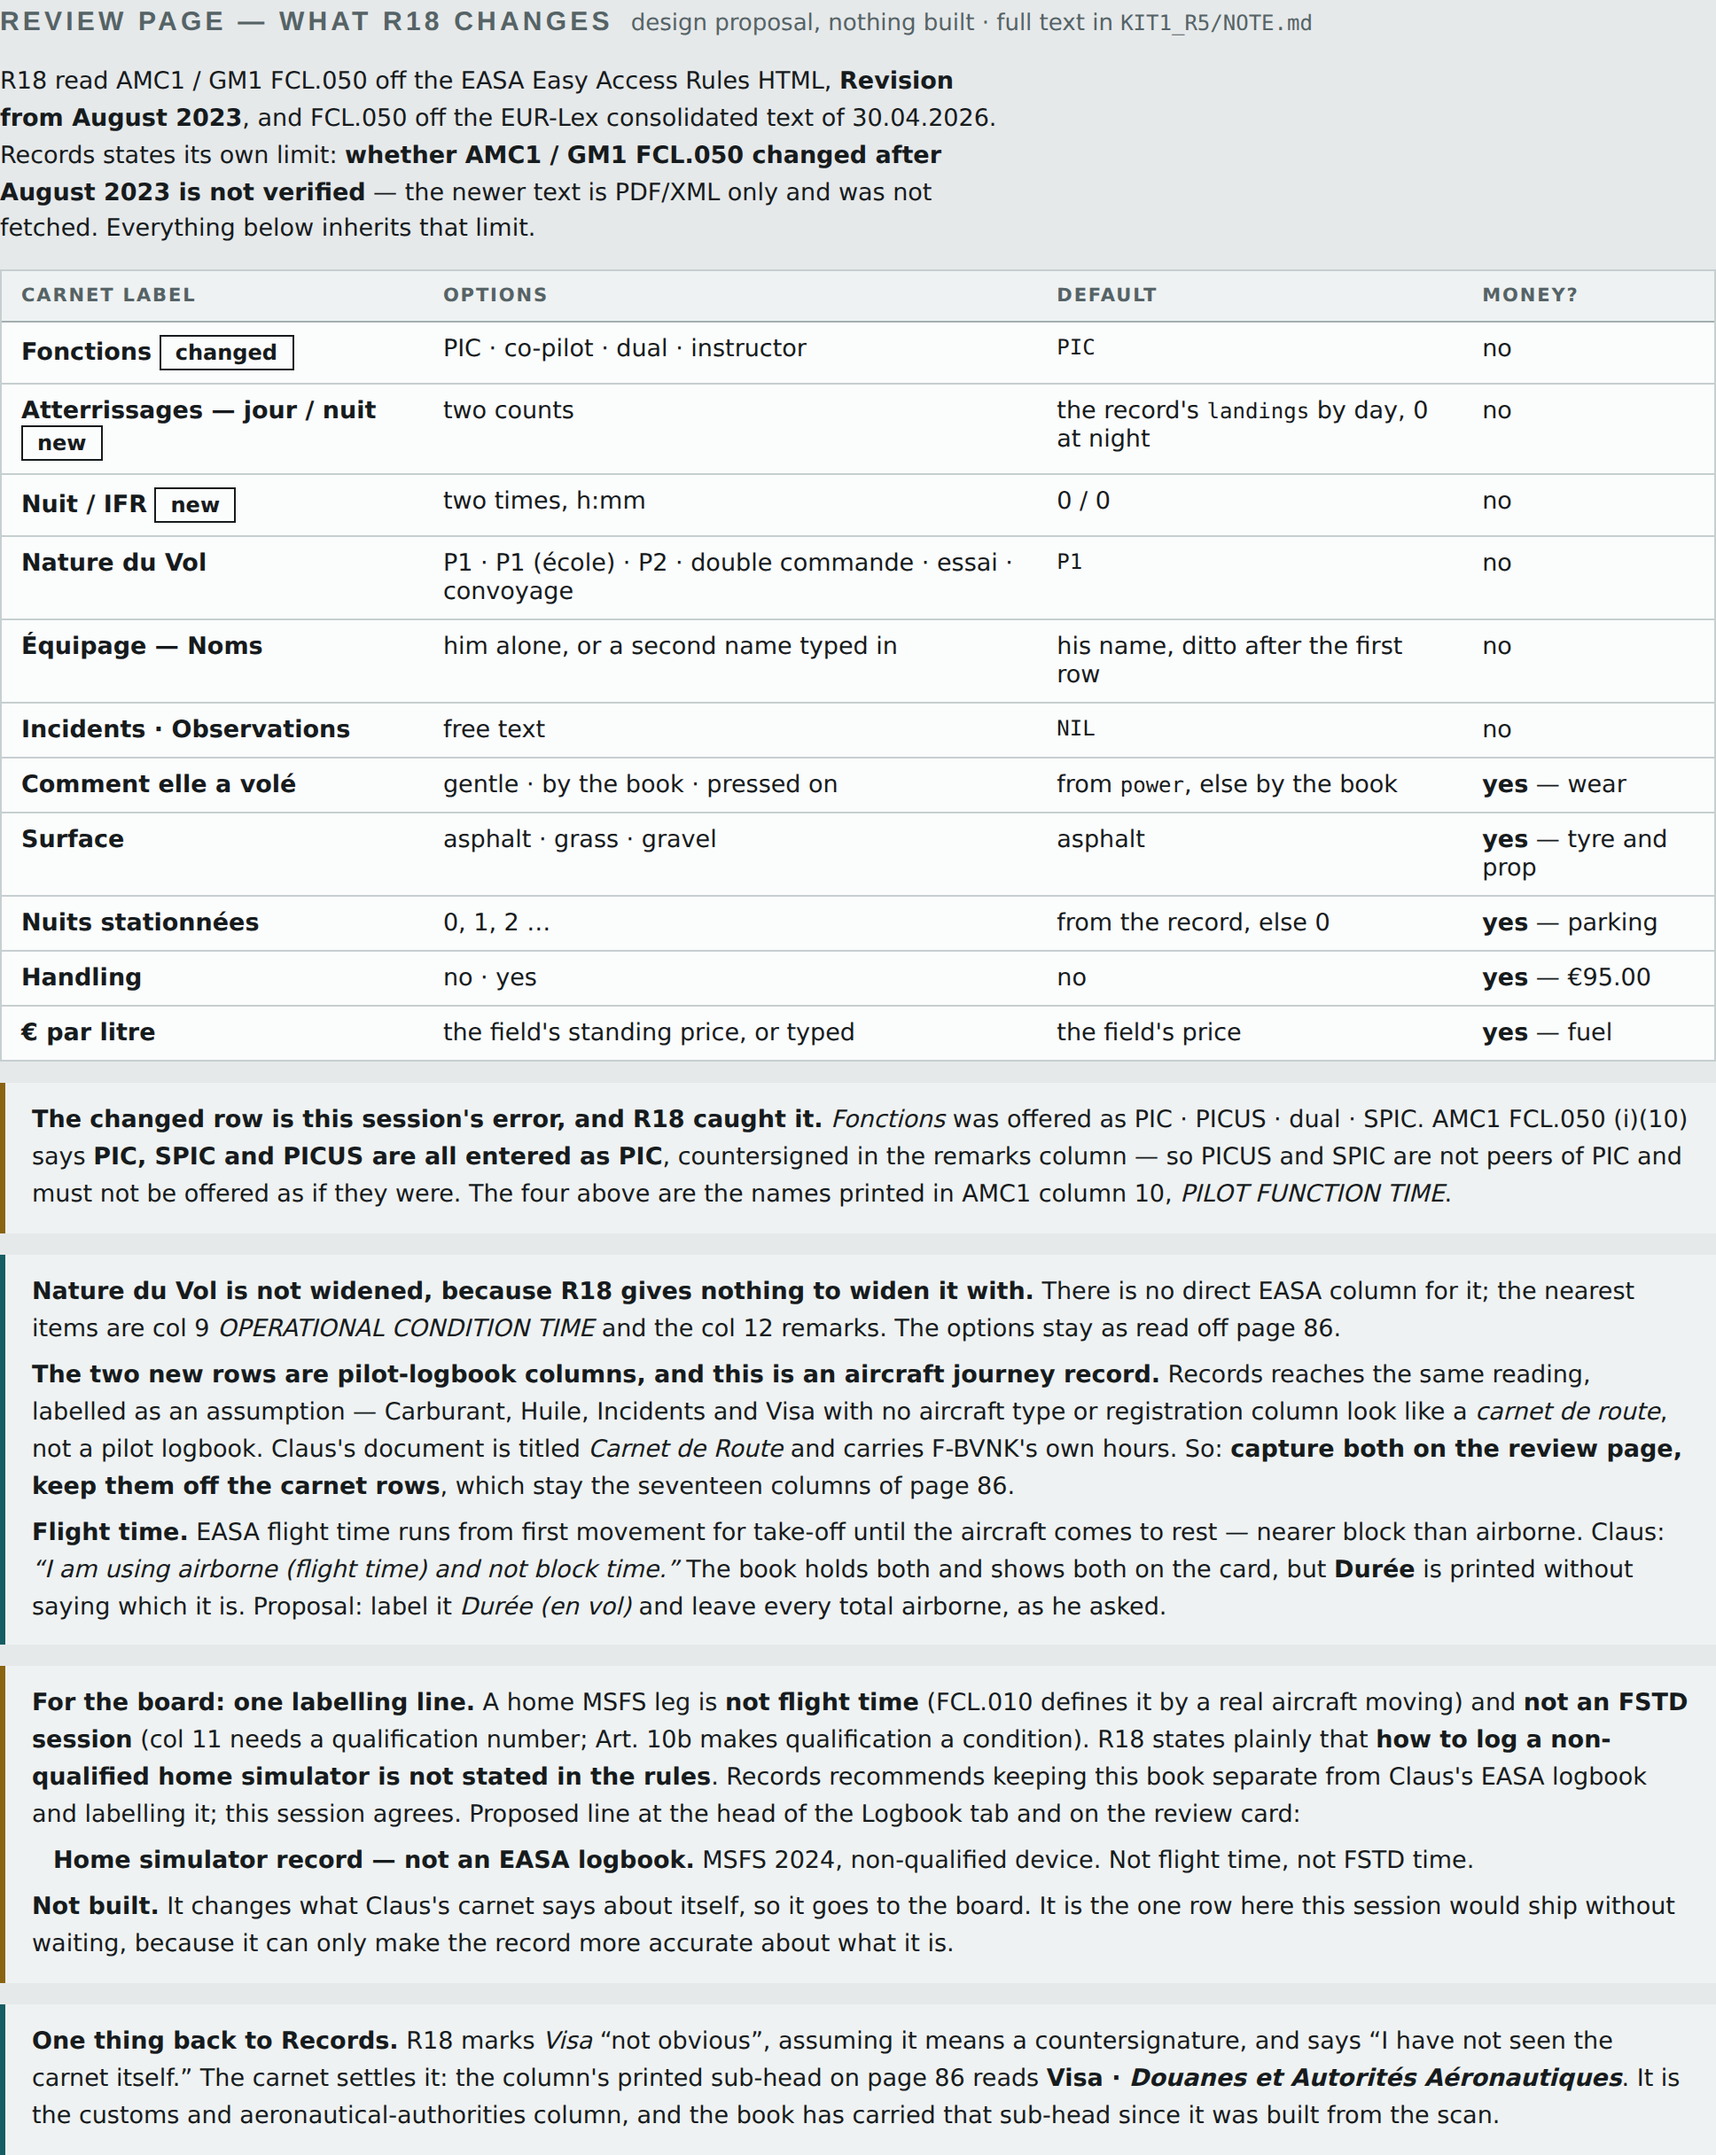
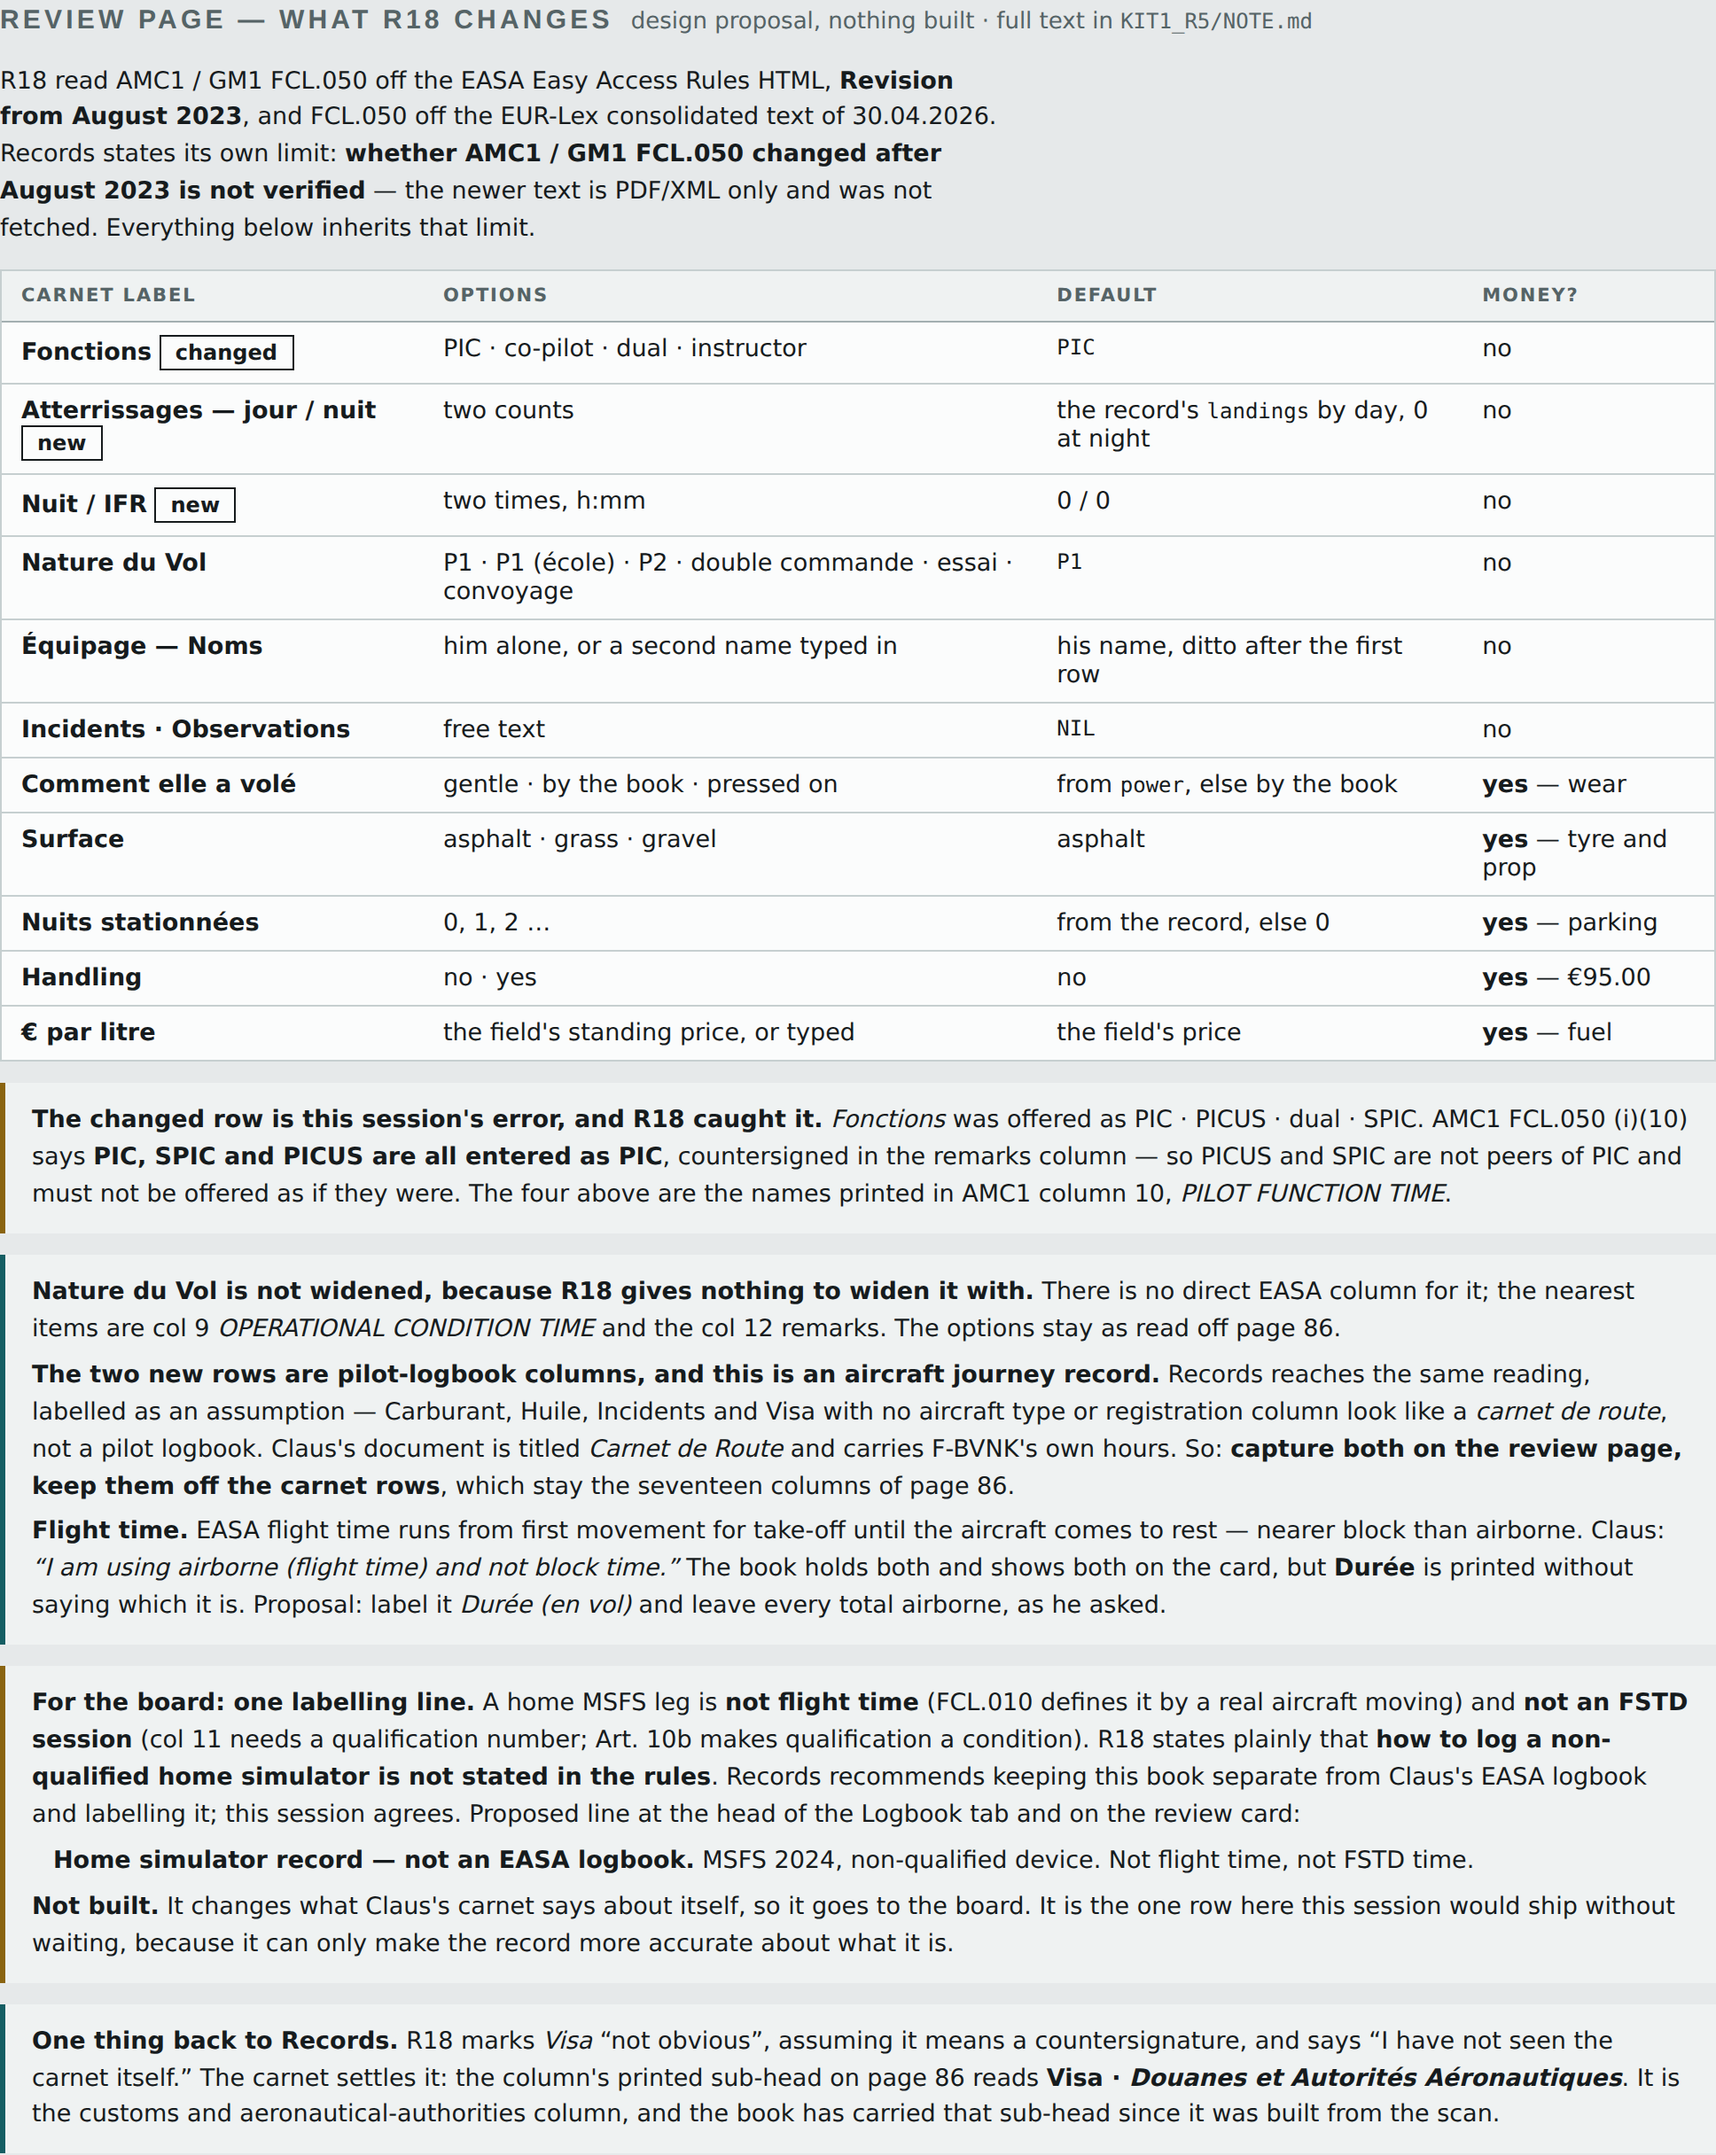
Job Card rev 15: K7e reported fixed, and the Sim Ledger hold noted
Claude-Session: https://claude.ai/code/session_019eb6XVXXj1PL6PpGAG61Zn

diff --git a/fbvnk-sim-ledger/JOB-CARD.html b/fbvnk-sim-ledger/JOB-CARD.html
@@ -160,7 +160,7 @@ footer{border-top:1px solid var(--line);padding-top:14px;font-size:13px;color:va
     <dl>
       <dt>Lane</dt><dd>design &amp; stage</dd>
       <dt>Leader</dt><dd>FBVNK PM</dd>
-      <dt>Card</dt><dd>16 Sep 2026 &middot; rev 14</dd>
+      <dt>Card</dt><dd>16 Sep 2026 &middot; rev 15</dd>
     </dl>
   </div>
 </header>
@@ -495,6 +495,50 @@ footer{border-top:1px solid var(--line);padding-top:14px;font-size:13px;color:va
     <p class="small"><strong>The EASA side is now in, as R18.</strong> It moved one row, added two and left <em>Nature du Vol</em> alone &mdash; the section below has it.</p>
   </div>
   <p class="small"><strong>The P1 figure is closed, and not by me.</strong> Claus, 18:04:32: &ldquo;good bloody question&hellip; ha ha, I should know, but I just carried it over from the previous owners. Keep it the same&rdquo;. The Logbook tab no longer calls it an assumption of this session&rsquo;s &mdash; it quotes him, and the figure stays exactly as his pages carry it.</p>
+</section>
+
+<section>
+  <h2>K7e FAIL &mdash; fixed <span class="hint">R8 &middot; the reserve cursor is bounded &middot; commit <span class="mono">6ec1551</span> &middot; Sim Ledger publish on hold</span></h2>
+  <div class="note warn">
+    <p><strong>Records failed revision 6 on the reserve rule, and they were right to.</strong> One hour-meter reading from another machine, then one back on F-BVNK, and the book accrued the whole difference between the two meters: <strong>328.09 h &mdash; &euro;7,267.19</strong>. A mistyped <span class="mono tiny">tachStart</span> gave <strong>&euro;26,957.43</strong>. Filing a dated file out of order double-accrued &mdash; the exact case the contract called safe.</p>
+    <p class="small">Their tested remedy is taken <strong>as it stands</strong> rather than redesigned. Nothing here is a new idea of mine except one extension, marked.</p>
+  </div>
+  <div class="tw">
+    <table>
+      <thead><tr><th>Rule</th><th>What accrues</th><th>Cursor</th></tr></thead>
+      <tbody>
+        <tr><td>Forward gap more than <strong>5 h</strong> beyond the leg&rsquo;s own span</td><td>the own span, flagged &mdash; that is two meters, not one</td><td>resumes</td></tr>
+        <tr><td>An <strong>own span</strong> more than 5 h beyond the leg&rsquo;s own flying <span class="pill">my extension</span></td><td>the airborne time, flagged &mdash; that is a mistyped reading, not a leg</td><td>as above</td></tr>
+        <tr><td>A record <strong>older than the last one filed</strong></td><td>0 when its reading closes at or below the cursor, else its own span</td><td><strong>never moves</strong></td></tr>
+        <tr><td>A <strong>negative gap</strong></td><td>nothing &mdash; a reading that goes down is not flying</td><td><strong>never moves</strong></td></tr>
+      </tbody>
+    </table>
+  </div>
+  <p class="small">The chronology key is <span class="mono tiny">date + engineStart</span>, taken from the <strong>record&rsquo;s own date</strong> before the ingest path pushes a back-dated leg forward to keep the carnet in order. Without that it would compare rewritten dates and never fire &mdash; the sort of thing that only shows up when you run it.</p>
+  <div class="tw">
+    <table>
+      <thead><tr><th>Case</th><th class="num">R6</th><th class="num">R8</th><th class="num">True</th></tr></thead>
+      <tbody>
+        <tr><td>The good sequence, V33 + V34</td><td class="num">6.03</td><td class="num"><strong>6.03</strong></td><td class="num">6.03</td></tr>
+        <tr><td>Another machine</td><td class="num">332.99</td><td class="num"><strong>3.17</strong></td><td class="num">3.17</td></tr>
+        <tr><td><span class="mono tiny">tachStart</span> typo</td><td class="num">1220.72</td><td class="num"><strong>2.92</strong></td><td class="num">safe side</td></tr>
+        <tr><td><span class="mono tiny">tachStop</span> typo</td><td class="num">~1110</td><td class="num"><strong>3.68</strong></td><td class="num">&mdash;</td></tr>
+        <tr><td>Filed out of order, A C B D</td><td class="num">5.80</td><td class="num"><strong>4.00</strong></td><td class="num">4.00</td></tr>
+        <tr><td>A reading below the cursor</td><td class="num">over by 0.90</td><td class="num"><strong>1.78</strong></td><td class="num">sound</td></tr>
+        <tr><td><strong>A real 3 h ground run between two legs</strong></td><td class="num">&mdash;</td><td class="num"><strong>5.00</strong></td><td class="num">5.00</td></tr>
+      </tbody>
+    </table>
+  </div>
+  <p class="small">That last row matters as much as the failures: <strong>the bound does not touch the real case</strong>, which is the whole point of putting it at five hours.</p>
+  <div class="note">
+    <p><strong>Also fixed.</strong> <strong>A5</strong> &mdash; a leg that flew showed <span class="mono tiny">0:00</span>, because V275 saves stretches as short as 10 s and rounding to the minute left nothing. It shows at least <span class="mono tiny">0:01</span> now. <strong>L1</strong> &mdash; the contract&rsquo;s stale <span class="mono tiny">noTakeOff</span> row, which contradicted the same file two sections later. <strong>L2</strong> &mdash; <span class="mono tiny">REJECTED_</span> holds the rejected legs of a run whose valid legs <em>were</em> written; a run with nothing valid writes no file.</p>
+    <p class="small"><strong>P4 left alone deliberately</strong> &mdash; Records call it bounded and small, the page says what it did, and building machinery for it is exactly what Claus told this session to stop doing. <strong>F1 closed by deletion</strong> with the positions. <span class="mono tiny">reserves_per_flown_hour</span> keeps its key name although the reserves run on the meter: the strip reads that key, and renaming it to fix a label would break a reader.</p>
+  </div>
+  <div class="note">
+    <p><strong>Clocks, final.</strong> Reserves on the meter. The 25/50/100 h inspections and the wear rates on journey-log airborne hours, Claus 21:57:47. TTAF and engine/prop SMOH on the meter, so they match the TT and ENG lines the iPad shows &mdash; <strong>the PM&rsquo;s pick, and labelled as his; one word changes it.</strong></p>
+    <p class="small"><strong>Sim Ledger publish is on hold</strong> as asked. The artifact stands at <strong>version 18</strong>; this session has not touched it. The branch file is ready to reconcile with whatever the PM publishes tonight.</p>
+  </div>
+  <p class="tiny muted">Commit <span class="mono">6ec155175cbfcfd3bbb28d92d229fbcd2d6824a8</span>, <span class="mono">fbvnk-sim-ledger/KIT1_R8/</span>. Book 165,167&nbsp;B md5 <span class="mono tiny">3e84dbab</span>. PRICES <span class="mono tiny">fc8d0058</span> &middot; VECTORS <span class="mono tiny">1e3112d7</span> &middot; LEG_CONTRACT <span class="mono tiny">64669728</span> &middot; STRIP_SPEC <span class="mono tiny">dddf2faa</span> &middot; NOTE <span class="mono tiny">969df605</span>. Thirty-nine vectors: <strong>V37</strong> the bounded cursor against every K7e sequence, <strong>V38</strong> the leg that flew. <strong>R8 and not R7</strong> because R7 was already reported with its checksums published &mdash; amending reported bytes breaks the checksum contract, so R7 stands.</p>
 </section>
 
 <section>
